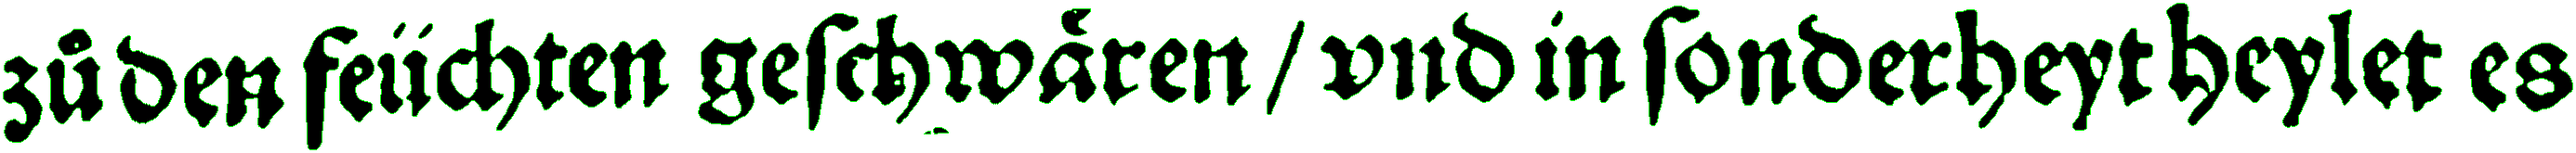
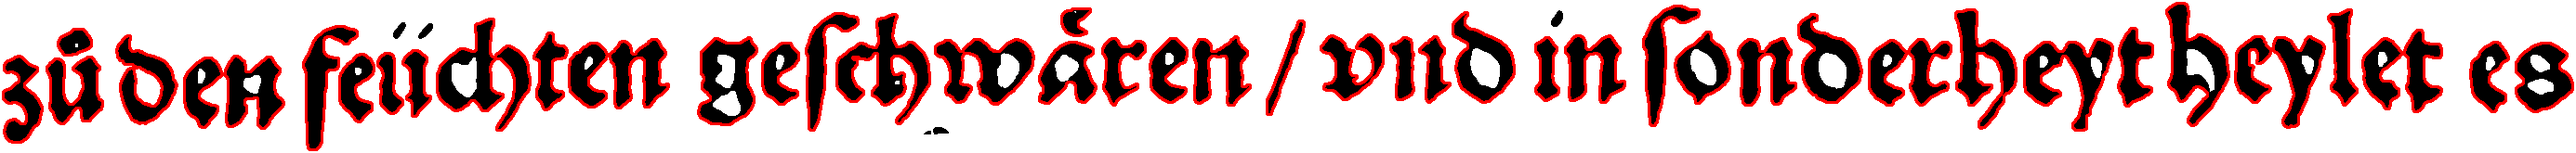
red

diff --git a/segmentation/seg_the_third.py b/segmentation/seg_the_third.py
@@ -33,8 +33,8 @@ def seg(filename):
         x, y, w, h = cv2.boundingRect(contours[i]) # get bounding box for cropping
         roi = out[y:y+h, x:x+w] # getting ROI
         cv2.imwrite('{}{}.png'.format(filename[:-4], i), roi) # save cropped output image
-    for i in range(len(contours)): cv2.drawContours(img, contours, i, (0,255,0))
-    cv2.imwrite(filename, img) # full image with regions drawn in green
+        cv2.drawContours(img, contours, i, (0,0,255), thickness=2)
+    cv2.imwrite(filename, img) # full image with regions drawn in red
 
 # execute
 seg('hard.png')
